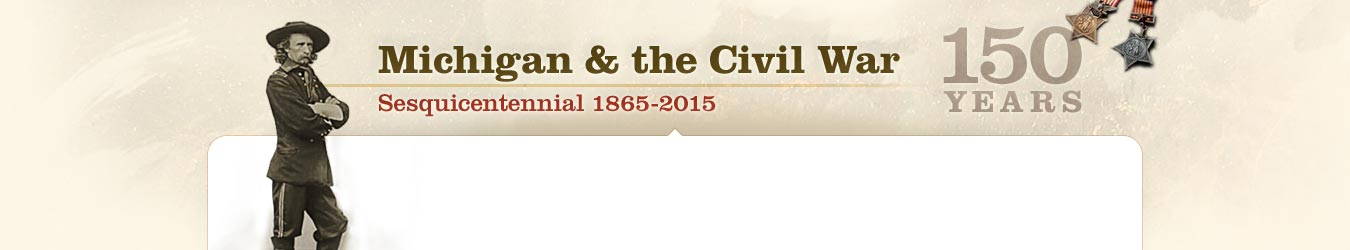
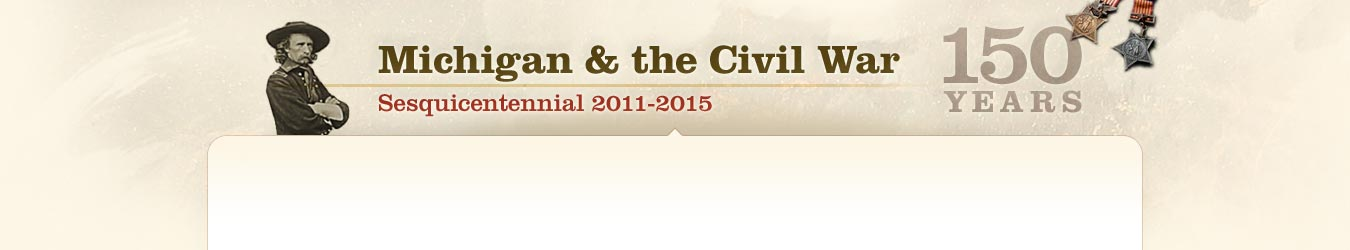
fixed CW callout

Changed region(s): [[0.1556, 0.532, 0.84, 1.0], [0.4356, 0.364, 0.5289, 0.448]]

diff --git a/theme/stylesheets/screen/core.css b/theme/stylesheets/screen/core.css
@@ -2502,9 +2502,6 @@ body.civilwar #main-bars p.more a.logo-link {
 	height: 21px;
 }
 
-body.civilwar.sub div#callout {
-	background: url(http://seekingmichigan.org/images/callout-CivilWar-sub.jpg) no-repeat 50% -0px;
-}
 body.civilwar.sub div#main-whitebox-top {
   background: url(http://seekingmichigan.org/images/main-whitebox-top-cw-tall.jpg) no-repeat 50% 0;
   position: absolute;
